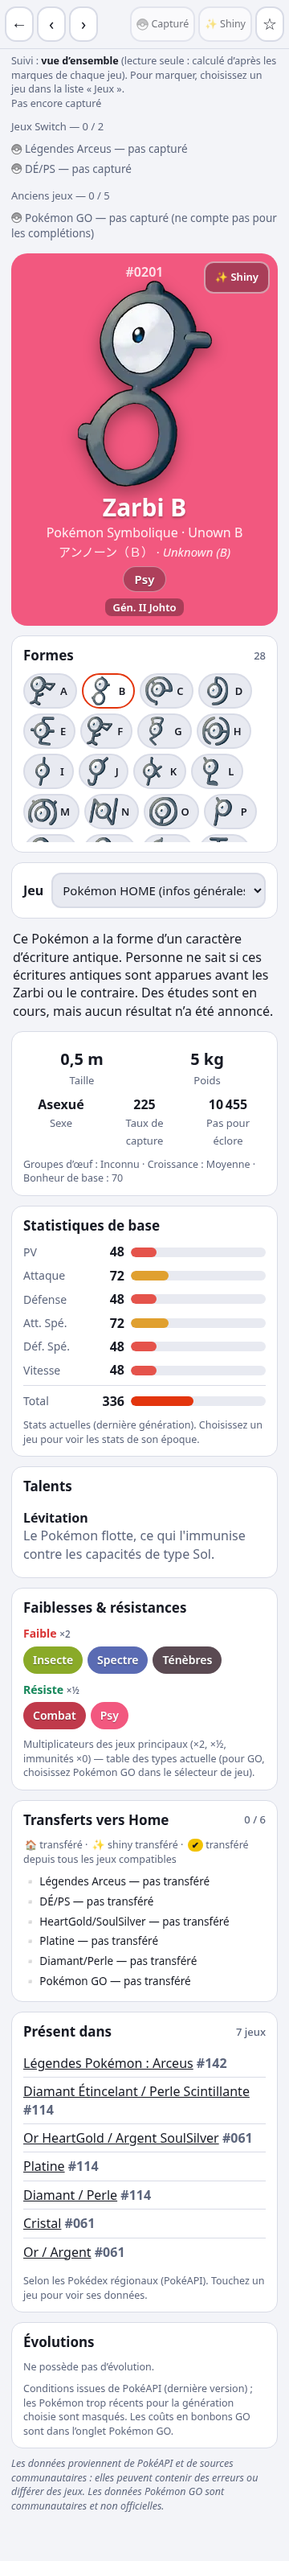
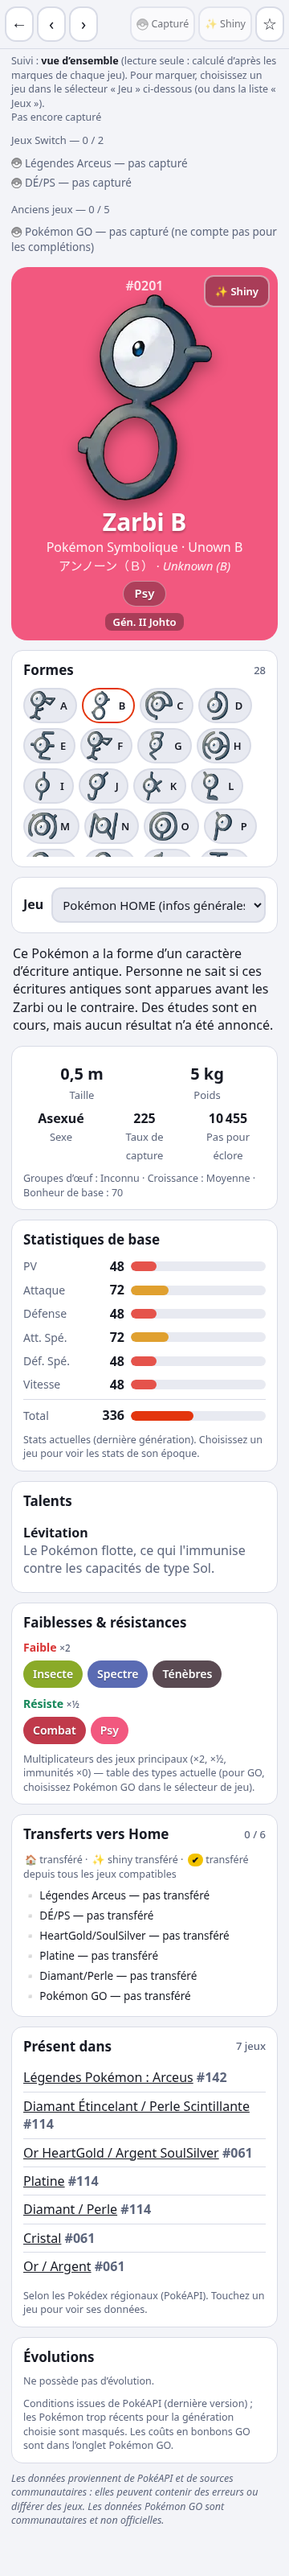
Sheet game switcher is the tracking context for that sheet

diff --git a/docs/app.js b/docs/app.js
@@ -28,14 +28,14 @@ let DATA, E = [], BY_KEY = {}, FORMS = {}, GAMES = [], GAME_BY = {}, GIDX = {}, 
 let FAVS = new Set(store.get('favs', [])), CAUGHT = new Set(store.get('caught', [])), SHINY = new Set(store.get('shiny', []));
 // Per-game marks (only used while a game or Pokémon GO is selected in the "Jeux" filter): strings "gameId:25" / "gameId:26-alola"
 const CAUGHT_G = new Set(store.get('caught_g', [])), SHINY_G = new Set(store.get('shiny_g', []));
-const state = { q: '', types: [], gen: '', cat: '', sort: 'id', game: '', forms: store.get('forms', false), view: store.get('view', 'grid'), dgame: store.get('dgame', 'home') };
+const state = { q: '', types: [], gen: '', cat: '', sort: 'id', game: '', forms: store.get('forms', false), view: store.get('view', 'grid'), dgame: 'home' };
 let listScroll = 0;
 const ik = p => p.c ? p.k : p.id; // key used in the global sets
 // Tracking context: a game id (or 'go') when one is selected in the Jeux filter, otherwise null = global marks (unchanged behaviour)
 // 'home' = Pokémon HOME: read-only, derived from the "Transféré vers Home" marks of the compatible games.
 const TRANS_G = new Set(store.get('home_g', [])), STRANS_G = new Set(store.get('homeshiny_g', []));
 const trackCtx = () => (GAME_BY[state.game] || state.game === 'go' || state.game === 'home') ? state.game : null;
-const trackName = () => { const c = trackCtx(); return c === 'go' ? 'Pokémon GO' : c === 'home' ? 'Pokémon HOME' : c ? GAME_BY[c].s : ''; };
+const trackName = (c = trackCtx()) => { return c === 'go' ? 'Pokémon GO' : c === 'home' ? 'Pokémon HOME' : c ? GAME_BY[c].s : ''; };
 const homeKind = c => c === 'go' ? 'direct' : (GAME_BY[c] && GAME_BY[c].h) || null; // direct | bank | transporter | null
 const HOME_KIND_FR = { direct: 'transfert direct vers HOME', bank: 'via Pokémon Bank', transporter: 'via Poké Fret / Pokémon Bank' };
 const gkey = (c, p) => c + ':' + p.k;
@@ -67,12 +67,15 @@ function baseStatus(p, av) {
 const homeAvailF = (p, f) => [...(f.av || []).filter(g => GAME_BY[g] && GAME_BY[g].h).sort((a, b) => GIDX[a] - GIDX[b]), ...(p.go ? ['go'] : [])];
 // "complete" = transferred from every compatible game where it exists (DLC/extension games count only when no base game has it)
 const homeComplete = (p, av) => { const t = HOME_C.get(p.k) || []; const base = av.filter(g => !(GAME_BY[g] && GAME_BY[g].k === 'dlc')); const need = base.length ? base : av; return need.length > 0 && need.every(g => t.includes(g)); };
-const isCaught = p => { const c = trackCtx(); return c === 'home' ? HOME_C.has(p.k) : c ? CAUGHT_G.has(gkey(c, p)) : CAUGHT_BY.has(p.k) || CAUGHT.has(ik(p)); };
-const isShiny = p => { const c = trackCtx(); return c === 'home' ? HOME_S.has(p.k) : c ? SHINY_G.has(gkey(c, p)) : SHINY_BY.has(p.k) || SHINY.has(ik(p)); };
-const isTrans = p => TRANS_G.has(gkey(trackCtx(), p)), isSTrans = p => STRANS_G.has(gkey(trackCtx(), p));
+const isCaught = (p, c = trackCtx()) => { return c === 'home' ? HOME_C.has(p.k) : c ? CAUGHT_G.has(gkey(c, p)) : CAUGHT_BY.has(p.k) || CAUGHT.has(ik(p)); };
+const isShiny = (p, c = trackCtx()) => { return c === 'home' ? HOME_S.has(p.k) : c ? SHINY_G.has(gkey(c, p)) : SHINY_BY.has(p.k) || SHINY.has(ik(p)); };
+const isTrans = (p, c = trackCtx()) => TRANS_G.has(gkey(c, p)), isSTrans = (p, c = trackCtx()) => STRANS_G.has(gkey(c, p));
+// The sheet has its own tracking context: its game switcher (state.dgame). 'home' = general infos → read-only (Home view if the list is on Home, else the derived overview).
+let sheetPref = null; // game chosen in the sheet switcher during this visit to the sheets (reset on return to the list)
+const sheetCtx = () => { const d = state.dgame; if (d === 'home') return state.game === 'home' ? 'home' : null; return (GAME_BY[d] || d === 'go') ? d : null; };
 const saveTrack = () => { store.set('caught_g', [...CAUGHT_G]); store.set('shiny_g', [...SHINY_G]); store.set('home_g', [...TRANS_G]); store.set('homeshiny_g', [...STRANS_G]); rebuildHome(); };
-function toggleMark(p, kind) {
-  const c = trackCtx(); if (!c || c === 'home') return; // base view and Home are read-only (derived)
+function toggleMark(p, kind, c = trackCtx()) {
+  if (!c || c === 'home') return; // base view and Home are read-only (derived)
   const k = gkey(c, p);
   if (kind === 'caught') {
     if (CAUGHT_G.has(k)) { CAUGHT_G.delete(k); TRANS_G.delete(k); STRANS_G.delete(k); } else CAUGHT_G.add(k); // un-catching also clears the transfer flags
@@ -82,8 +85,8 @@ function toggleMark(p, kind) {
   saveTrack();
 }
 // "Transféré vers Home": marking a transfer also marks the Pokémon as caught in that game; shiny transfer also marks shiny + transfer.
-function toggleTransfer(p, shiny) {
-  const c = trackCtx(); if (!c || c === 'home' || !homeKind(c)) return; const k = gkey(c, p);
+function toggleTransfer(p, shiny, c = trackCtx()) {
+  if (!c || c === 'home' || !homeKind(c)) return; const k = gkey(c, p);
   if (!shiny) { if (TRANS_G.has(k)) { TRANS_G.delete(k); STRANS_G.delete(k); } else { TRANS_G.add(k); CAUGHT_G.add(k); } }
   else if (STRANS_G.has(k)) STRANS_G.delete(k);
   else { STRANS_G.add(k); TRANS_G.add(k); CAUGHT_G.add(k); SHINY_G.add(k); }
@@ -251,7 +254,7 @@ function render() {
   if (ctx) { // progress of the selected game: marks among the entries that belong to it
     const dx = DEX[ctx], gi = GIDX[ctx];
     const uni = E.filter(p => (state.forms || !p.c) && (ctx === 'home' ? true : ctx === 'go' ? p.go : (dx && dx.order.has(p.id) && (!p.c || inGame(p, gi)))));
-    const cu = uni.filter(isCaught).length, su = uni.filter(isShiny).length;
+    const cu = uni.filter(p => isCaught(p)).length, su = uni.filter(p => isShiny(p)).length;
     prog = ctx === 'home'
       ? `HOME : ${cu} / ${uni.length} transférés · ${su} shiny · ${uni.filter(p => isCaught(p) && homeComplete(p, homeAvail(p))).length} complets`
       : `${trackName()} : ${cu} / ${uni.length} capturés · ${su} shiny`;
@@ -291,7 +294,7 @@ function route() {
     openDetail(BY_KEY[m[1]]);
     window.scrollTo(0, 0);
   } else {
-    detailTok++;
+    detailTok++; sheetPref = null;
     dv.hidden = true; lv.hidden = false;
     document.title = 'Pokédex';
     window.scrollTo(0, listScroll);
@@ -299,13 +302,13 @@ function route() {
 }
 async function openDetail(p) {
   const tok = ++detailTok;
+  state.dgame = sheetPref || (state.game === 'go' || state.game === 'home' || GAME_BY[state.game] ? state.game : 'home'); // sheet game: its own choice, else the list filter
   document.title = `${p.n} #${pad(p.id)} – Pokédex`;
   $('#detail-view').innerHTML = navHTML(p) + `<div class="detail"><div class="hero" style="--c1:${TYPE_COLORS[p.t[0]]};--c2:${TYPE_COLORS[p.t[1] || p.t[0]]}"><div class="num">#${pad(p.id)}</div><img src="img/${p.k}.webp" alt="${esc(p.n)}" width="256" height="256"><h1>${esc(p.n)}</h1>${namesHTML(p)}</div><p class="note" id="dload">Chargement de la fiche…</p></div>`;
   try {
     const [sp, shared] = await Promise.all([loadSp(p.id), loadShared()]);
     if (tok !== detailTok) return;
     DET = { p, sp, f: sp.f[p.k], shared };
-    if (state.game === 'go' || state.game === 'home' || GAME_BY[state.game]) state.dgame = state.game; // follow the list filter
     pickGame(state.dgame);
     if (state.dgame === 'go') { try { DET.go = await loadGo(); } catch { state.dgame = 'home'; } if (tok !== detailTok) return; }
     renderDetail();
@@ -318,7 +321,7 @@ function availGames(f) { return (f.av || []).slice().sort((a, b) => GIDX[a] - GI
 function pickGame(g) {
   const f = DET.f;
   const ok = g === 'home' || (g === 'go' && f.go && f.go.r) || (GAME_BY[g] && (f.av || []).includes(g));
-  state.dgame = ok ? g : 'home'; store.set('dgame', state.dgame);
+  state.dgame = ok ? g : 'home';
 }
 const homeBall = '<svg class="ball hm" viewBox="0 0 24 24" width="1em" height="1em" aria-hidden="true"><path d="M3 11.5 12 4l9 7.5V20a1 1 0 0 1-1 1h-5v-6H9v6H4a1 1 0 0 1-1-1z" fill="none" stroke="currentColor" stroke-width="2" stroke-linejoin="round"/></svg>';
 function gameNames(ids) { return ids.map(g => g === 'go' ? 'Pokémon GO' : GAME_BY[g].s).join(', '); }
@@ -335,7 +338,7 @@ function baseHTML(p) {
   const row = g => `<li>${b.c.includes(g) ? BALL : BALL_OFF} ${esc(gameNames([g]))} — ${b.c.includes(g) ? 'capturé' : 'pas capturé'}${b.s.includes(g) ? ' · ✨ shiny' : ''}</li>`;
   const sw = av.filter(g => SWITCH_IDS.has(g)), old = av.filter(g => !SWITCH_IDS.has(g));
   const frac = (need, have) => `${need.filter(g => have.includes(g)).length} / ${need.length}`;
-  let h = `Suivi : <b>vue d’ensemble</b> (lecture seule : calculé d’après les marques de chaque jeu). Pour marquer, choisissez un jeu dans la liste « Jeux ».<br>` +
+  let h = `Suivi : <b>vue d’ensemble</b> (lecture seule : calculé d’après les marques de chaque jeu). Pour marquer, choisissez un jeu dans le sélecteur « Jeu » ci-dessous (ou dans la liste « Jeux »).<br>` +
     (b.any ? `${BALL} Capturé` : 'Pas encore capturé') + (b.shAny ? ' · ✨ shiny' : '') +
     (b.swDone ? ' · <span class="mk cm">✔ Switch complet</span>' : '') + (b.oldDone ? ' · <span class="mk om">🕹 Anciens jeux complets</span>' : '') +
     (b.shSwDone ? ' · <span class="mk cm">✨✔ shiny Switch</span>' : '') + (b.shOldDone ? ' · <span class="mk om">✨🕹 shiny anciens jeux</span>' : '');
@@ -346,7 +349,7 @@ function baseHTML(p) {
   return h;
 }
 function trackHTML(p) {
-  const c = trackCtx();
+  const c = sheetCtx();
   if (!c) return baseHTML(p);
   if (c === 'home') {
     const f = HOME_C.get(p.k) || [], sh = HOME_S.get(p.k) || [], av = homeAvail(p);
@@ -355,17 +358,19 @@ function trackHTML(p) {
       homeRowsHTML(av, f, sh);
   }
   const hk = homeKind(c);
-  let h = `Captures et shiny suivis pour : <b>${esc(trackName())}</b>`;
+  let h = `Captures et shiny suivis pour : <b>${esc(trackName(c))}</b>`;
+  { const b = baseStatus(p); h += `<br><span class="mute">Tous jeux confondus : capturé dans ${b.c.length} jeu${b.c.length > 1 ? 'x' : ''} sur ${gamesOf(p).length + (p.go ? 1 : 0)} · shiny dans ${b.s.length}.</span>`; }
   if (!hk) return h + '<br>Ce jeu ne peut pas envoyer directement de Pokémon vers HOME.';
-  h += ` <span class="mute">(${HOME_KIND_FR[hk]})</span><div class="trackbtns"><button type="button" class="tr" aria-pressed="${isTrans(p)}" title="Transféré vers Home depuis ${esc(trackName())}">${homeBall} Transféré vers Home</button>`;
-  if (isShiny(p) || isSTrans(p)) h += `<button type="button" class="trs" aria-pressed="${isSTrans(p)}" title="Shiny transféré vers Home">✨ Transféré</button>`;
+  h += ` <span class="mute">(${HOME_KIND_FR[hk]})</span><div class="trackbtns"><button type="button" class="tr" aria-pressed="${isTrans(p, c)}" title="Transféré vers Home depuis ${esc(trackName(c))}">${homeBall} Transféré vers Home</button>`;
+  if (isShiny(p, c) || isSTrans(p, c)) h += `<button type="button" class="trs" aria-pressed="${isSTrans(p, c)}" title="Shiny transféré vers Home">✨ Transféré</button>`;
   return h + '</div>';
 }
 function refreshTrack(p) {
   const el = $('#trackinfo'); if (el) el.innerHTML = trackHTML(p);
   const cg = document.querySelector('.dnav .cg'), sh = document.querySelector('.dnav .sh');
-  if (cg) { cg.setAttribute('aria-pressed', isCaught(p)); cg.innerHTML = isCaught(p) ? BALL + ' Capturé' : BALL_OFF + ' Capturé'; }
-  if (sh) sh.setAttribute('aria-pressed', isShiny(p));
+  const c = sheetCtx();
+  if (cg) { cg.setAttribute('aria-pressed', isCaught(p, c)); cg.innerHTML = isCaught(p, c) ? BALL + ' Capturé' : BALL_OFF + ' Capturé'; }
+  if (sh) sh.setAttribute('aria-pressed', isShiny(p, c));
 }
 function navHTML(p) {
   const key = ik(p);
@@ -374,10 +379,11 @@ function navHTML(p) {
     const list = filtered().filter(x => !x.c); const i = list.findIndex(x => x.id === p.id);
     if (i > 0) prev = `#/p/${list[i - 1].k}`; if (i >= 0 && i < list.length - 1) next = `#/p/${list[i + 1].k}`;
   } else { prev = p.id > 1 ? `#/p/${p.id - 1}` : ''; next = p.id < 1025 ? `#/p/${p.id + 1}` : ''; }
+  const sc = sheetCtx();
   const ctxLine = `<div class="trackinfo" id="trackinfo">${trackHTML(p)}</div>`;
   return `<div class="dnav"><a href="#/" aria-label="Retour à la liste">←</a><a class="${prev ? '' : 'disabled'}" href="${prev || '#'}" aria-label="Précédent">‹</a><a class="${next ? '' : 'disabled'}" href="${next || '#'}" aria-label="Suivant">›</a><span class="sp"></span>
-    <button class="cg" ${!trackCtx() || trackCtx() === 'home' ? 'disabled' : ''} aria-pressed="${isCaught(p)}" aria-label="Capturé${trackCtx() ? ' – ' + trackName() : ''}" title="Capturé${trackCtx() ? ' – ' + trackName() : ''}">${isCaught(p) ? BALL + ' Capturé' : BALL_OFF + ' Capturé'}</button>
-    <button class="sh" ${!trackCtx() || trackCtx() === 'home' ? 'disabled' : ''} aria-pressed="${isShiny(p)}" aria-label="Shiny capturé${trackCtx() ? ' – ' + trackName() : ''}" title="Shiny capturé${trackCtx() ? ' – ' + trackName() : ''}">✨ Shiny</button>
+    <button class="cg" ${!sc || sc === 'home' ? 'disabled' : ''} aria-pressed="${isCaught(p, sc)}" aria-label="Capturé${sc ? ' – ' + trackName(sc) : ''}" title="Capturé${sc ? ' – ' + trackName(sc) : ''}">${isCaught(p, sc) ? BALL + ' Capturé' : BALL_OFF + ' Capturé'}</button>
+    <button class="sh" ${!sc || sc === 'home' ? 'disabled' : ''} aria-pressed="${isShiny(p, sc)}" aria-label="Shiny capturé${sc ? ' – ' + trackName(sc) : ''}" title="Shiny capturé${sc ? ' – ' + trackName(sc) : ''}">✨ Shiny</button>
     <button class="fav" aria-pressed="${FAVS.has(key)}" aria-label="Favori">${FAVS.has(key) ? '★' : '☆'}</button></div>${ctxLine}`;
 }
 const chartFor = gen => DATA.charts[gen <= 1 ? 1 : gen <= 5 ? 2 : 6];
@@ -697,7 +703,7 @@ function effNote(mode, gm) {
 async function changeGame(g) {
   state.dgame = g;
   if (g === 'go') { try { DET.go = await loadGo(); } catch { alert('Données GO indisponibles hors-ligne : ouvrez-les une fois avec une connexion.'); state.dgame = 'home'; } }
-  pickGame(state.dgame); store.set('dgame', state.dgame);
+  pickGame(state.dgame); sheetPref = state.dgame;
   renderDetail();
 }
 document.addEventListener('change', e => { if (e.target.id === 'dgame') changeGame(e.target.value); });
@@ -719,13 +725,13 @@ document.addEventListener('click', e => {
   const cgb = e.target.closest('.dnav .cg'), shb = e.target.closest('.dnav .sh');
   if (cgb || shb) {
     const p = DET && DET.p; if (!p || (cgb || shb).disabled) return;
-    toggleMark(p, cgb ? 'caught' : 'shiny'); refreshTrack(p); render();
+    toggleMark(p, cgb ? 'caught' : 'shiny', sheetCtx()); refreshTrack(p); render();
     return;
   }
   const lgb = e.target.closest('#trackinfo .lg');
   if (lgb) { const p = DET && DET.p; if (!p) return; CAUGHT.delete(ik(p)); SHINY.delete(ik(p)); store.set('caught', [...CAUGHT]); store.set('shiny', [...SHINY]); refreshTrack(p); render(); return; }
   const trb = e.target.closest('#trackinfo .tr, #trackinfo .trs');
-  if (trb) { const p = DET && DET.p; if (!p) return; toggleTransfer(p, trb.classList.contains('trs')); refreshTrack(p); render(); return; }
+  if (trb) { const p = DET && DET.p; if (!p) return; toggleTransfer(p, trb.classList.contains('trs'), sheetCtx()); refreshTrack(p); render(); return; }
   const f = e.target.closest('.fav');
   if (f) {
     const p = DET && DET.p; if (!p) return; const key = ik(p);

diff --git a/docs/sw.js b/docs/sw.js
@@ -1,5 +1,5 @@
 'use strict';
-const VERSION = 'v10';
+const VERSION = 'v11';
 const DATA_VERSION = 'd2'; // bump when the schema of data/*.json changes
 const DATA = `pokedex-data-${DATA_VERSION}`;
 const SHELL = `pokedex-shell-${VERSION}`;
